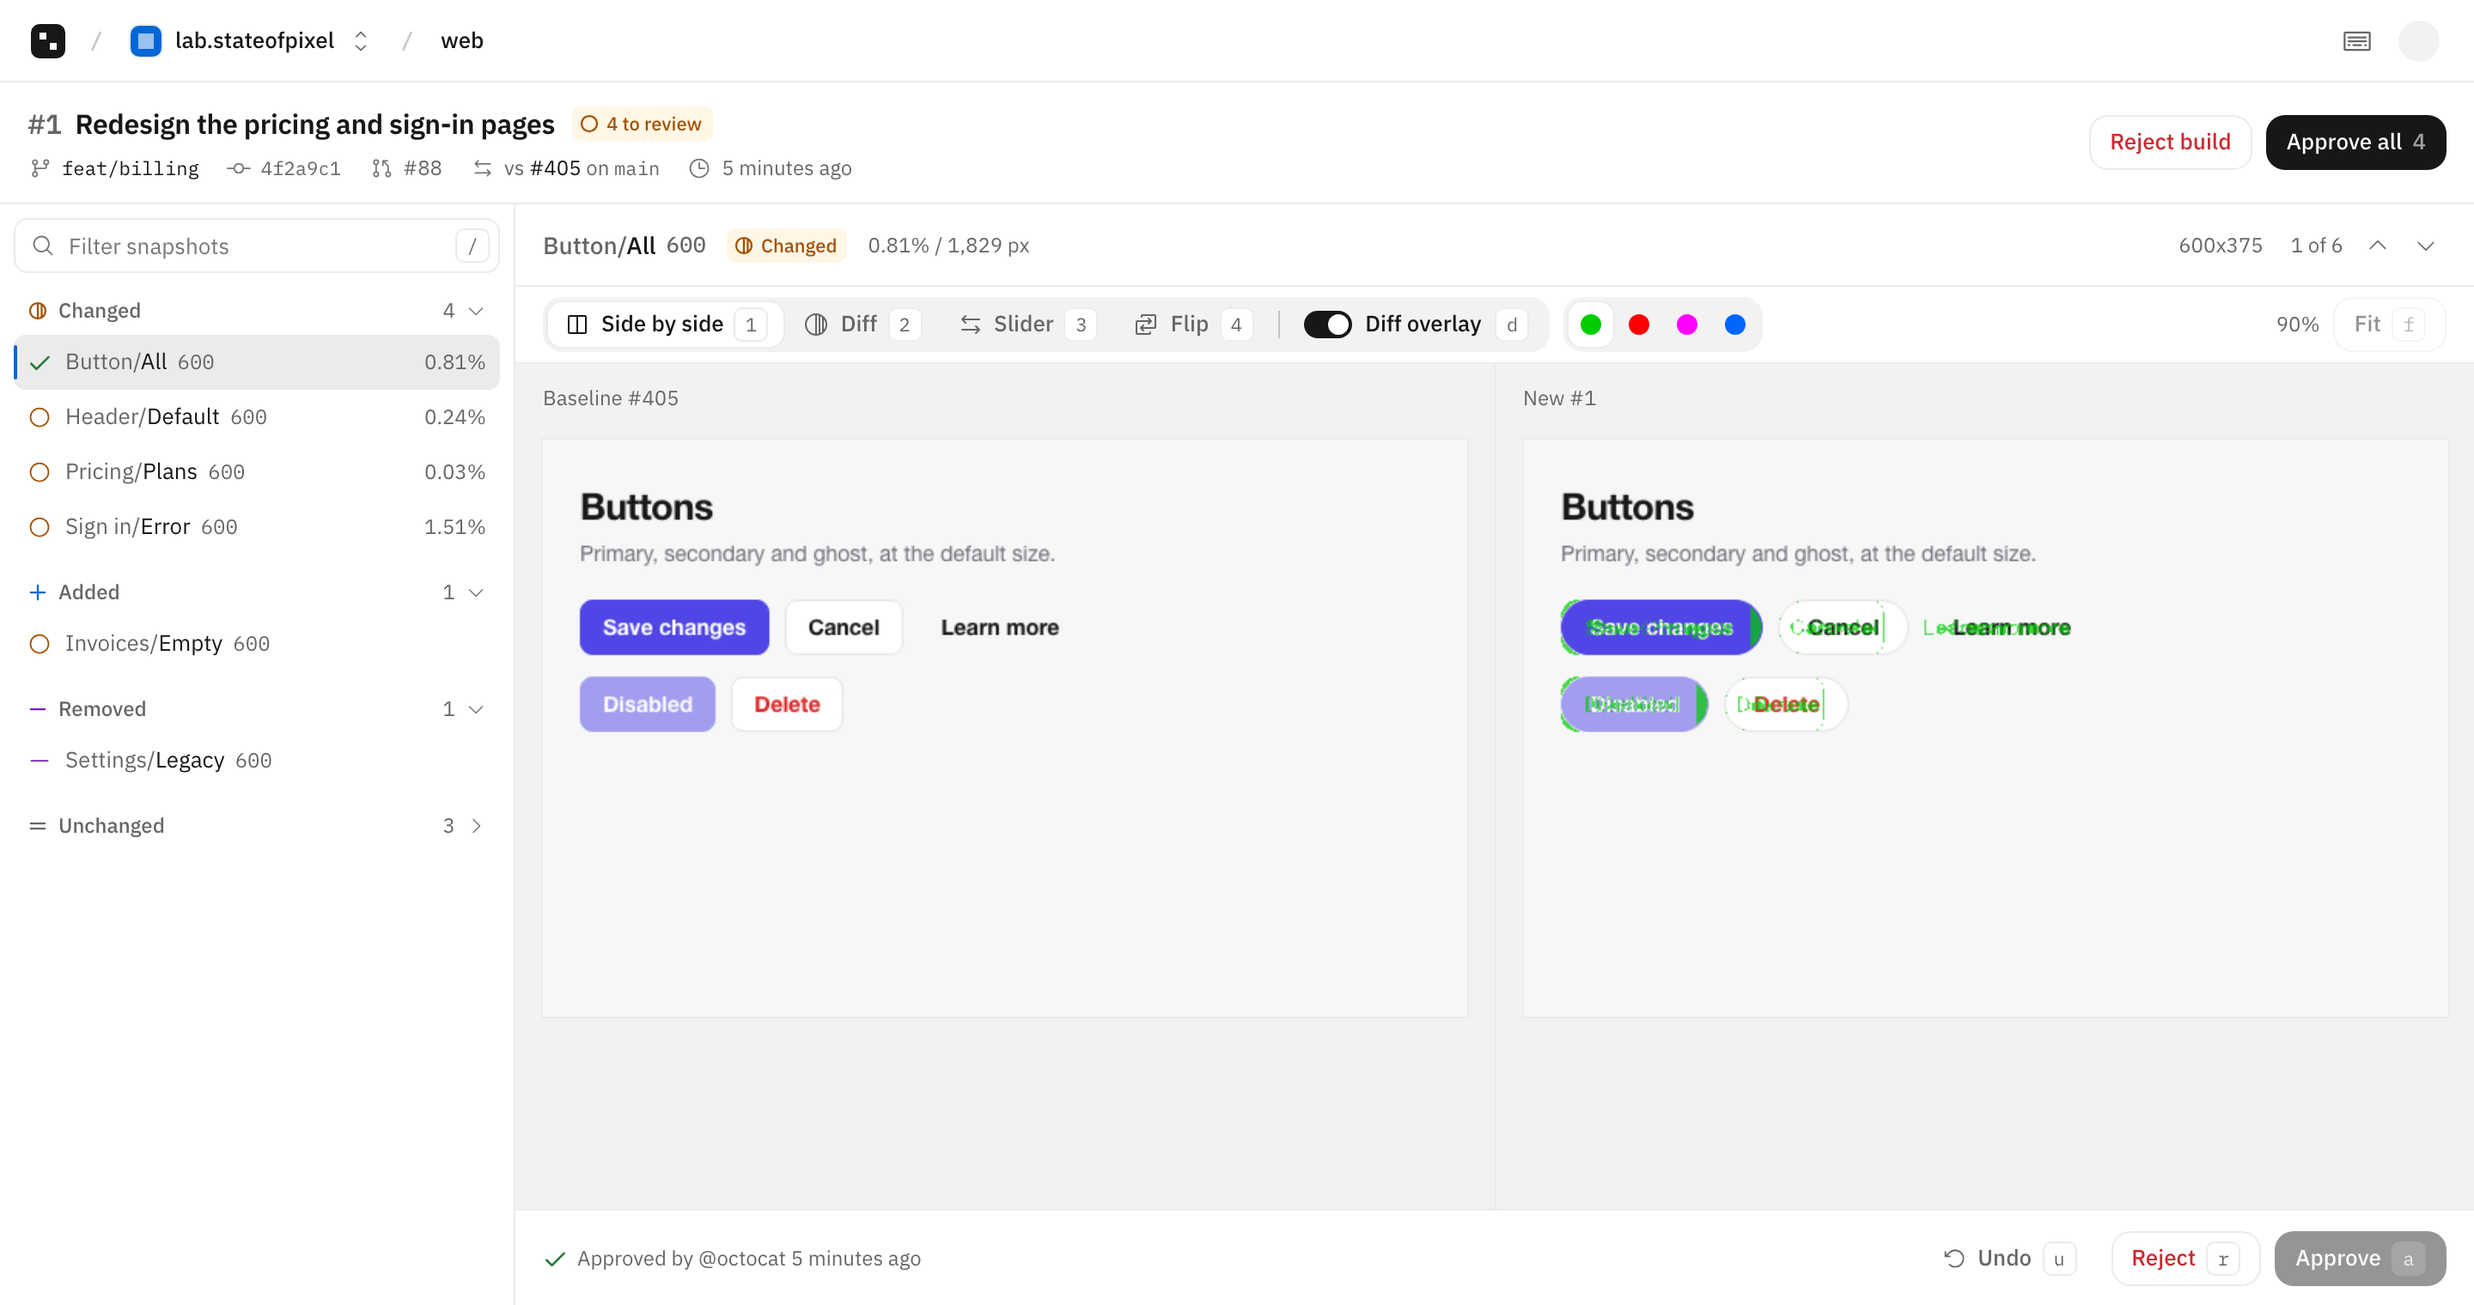
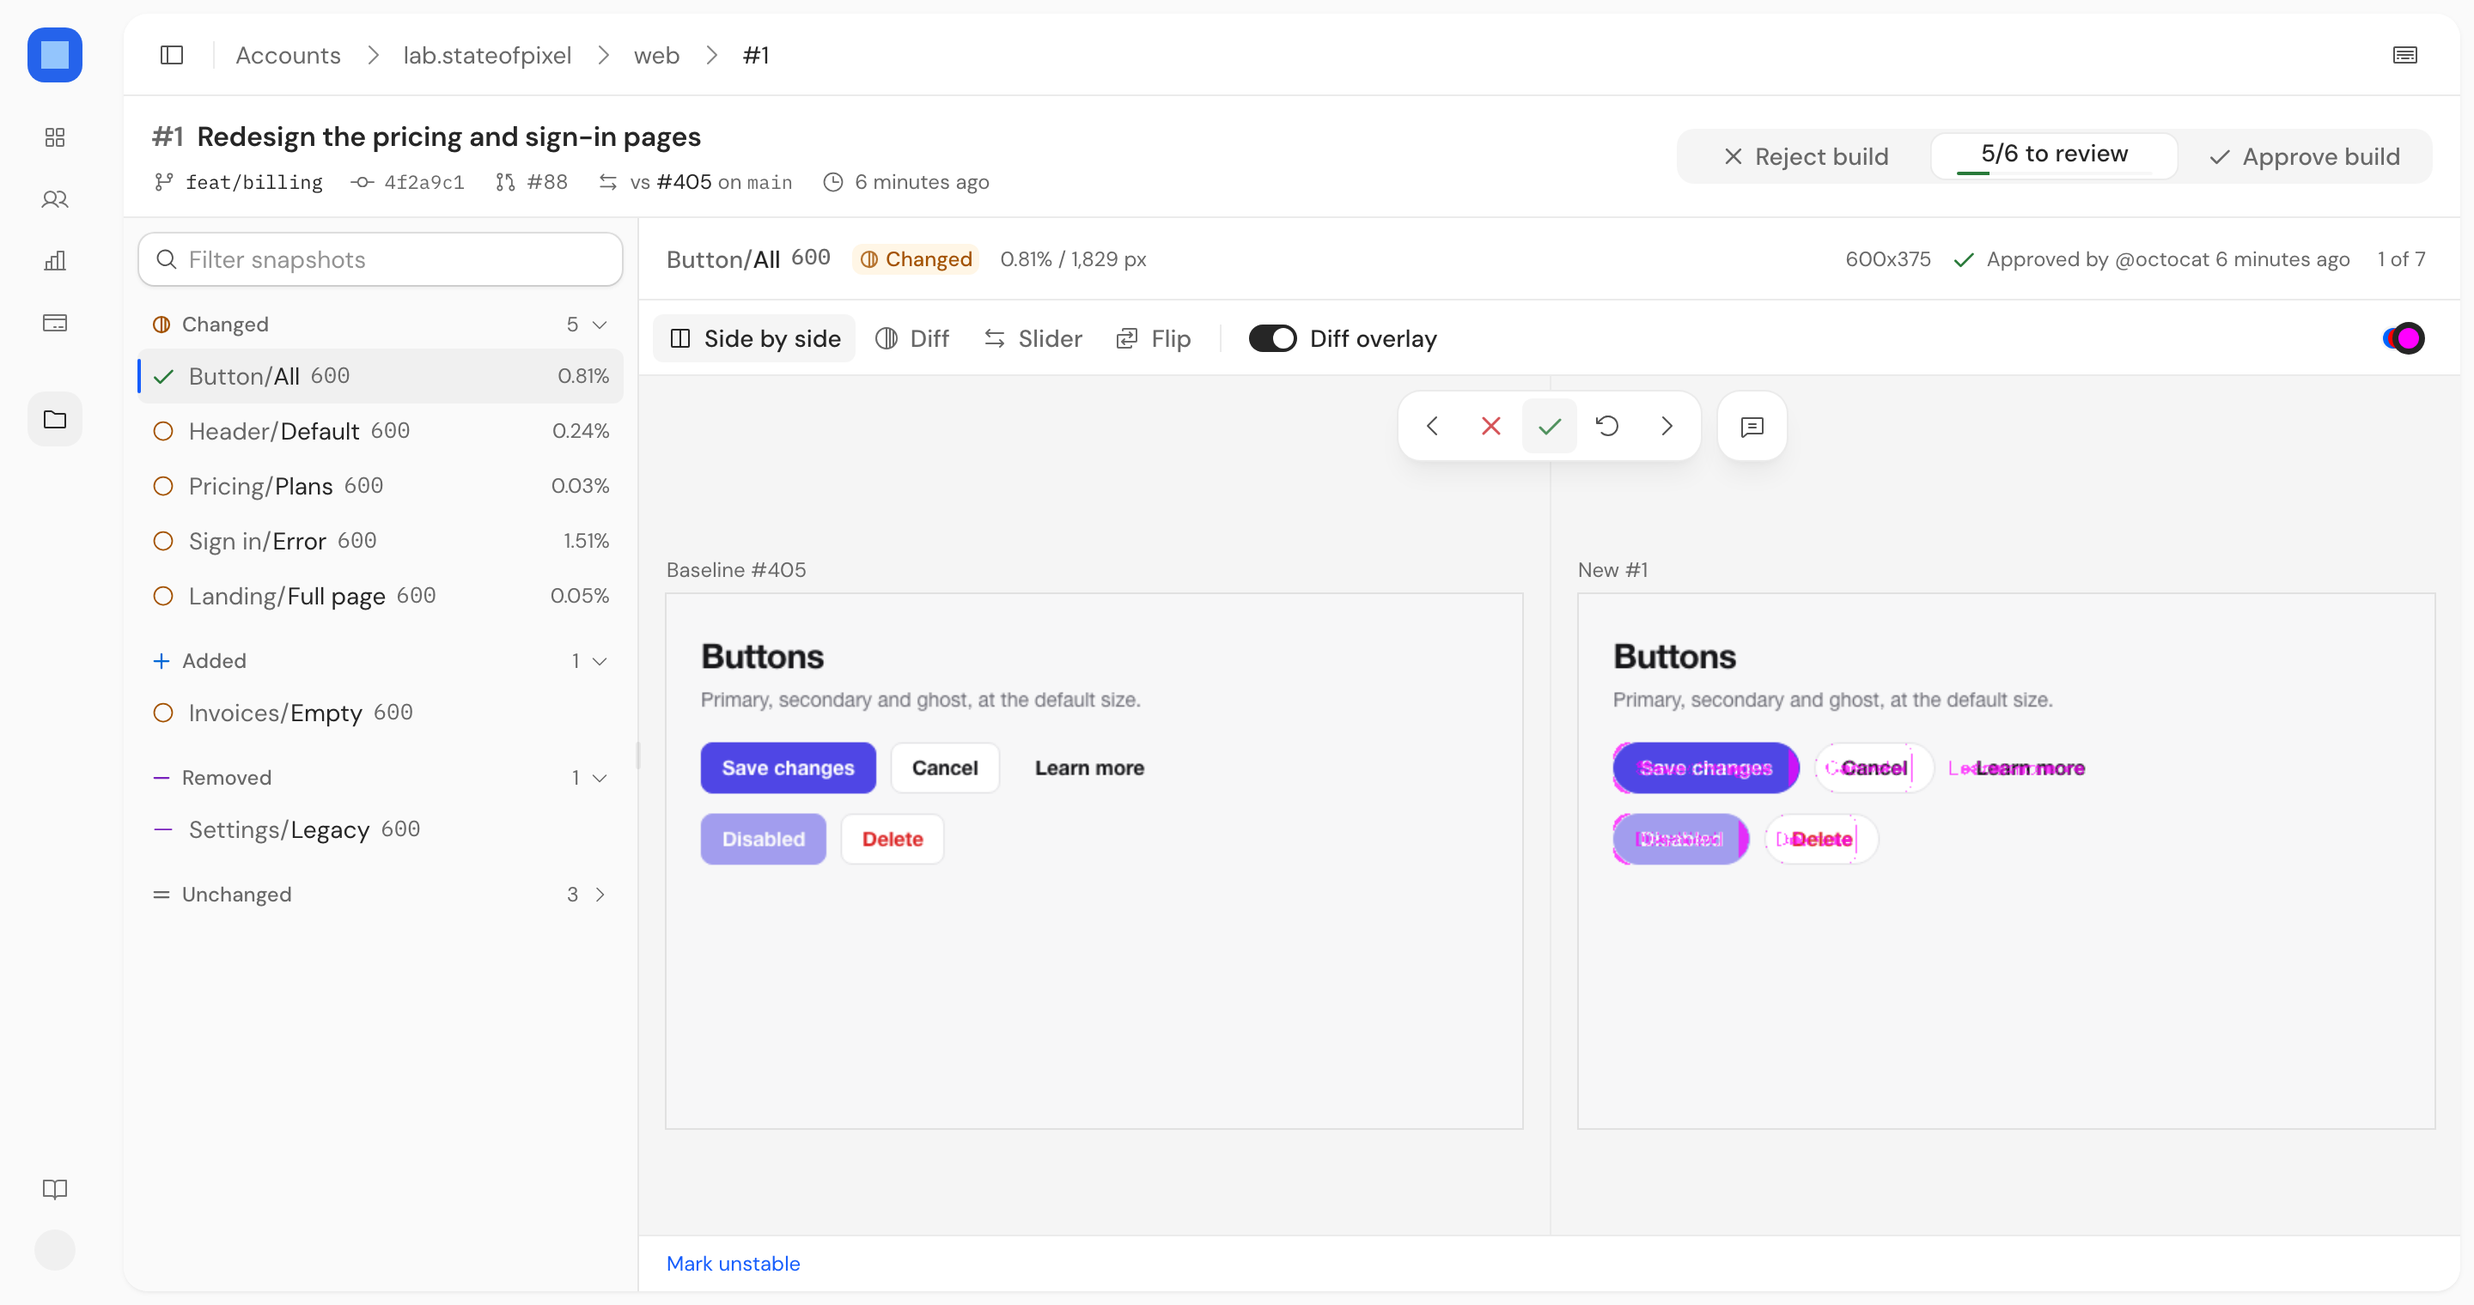
docs: refresh interface docs and the review page screenshot

diff --git a/docs/DESIGN.md b/docs/DESIGN.md
@@ -229,11 +229,11 @@ Settings: 960px max width. Each section is a row with the title on the left (224
 
 Public header: the 24px mark and the wordmark in `font-heading text-lg`, then How it works, Pricing, Compare and Docs as `muted-foreground` ghost buttons from 1024px, with `accent` fill on the current section. On the right an "Open source" ghost button with the GitHub mark and a divider from 768px, a ghost Sign in from 640px and a primary Start free (Open dashboard when signed in). Below 1024px a menu button opens a 320px right sheet with the links as 48px rows, Start free with GitHub and Sign in.
 
-Landing (`/`): the public header. Sections are `py-16 sm:py-24`; "Access follows GitHub", the questions and the closing line sit on `muted/80` bands. Sections top to bottom: the hero on a 12 column grid, the H1 in 8 columns at the hero size, and in the other 4 the lead copy, Start free with GitHub and an outline "See pricing" button, and a `text-xs muted-foreground` free line; the demo, the real build page (`BuildPage`, the same fixture hook as the lab builds) on a checkerboard inside a uiofcraft `CardFrame` with the deeper frame shadow, whose header says "Same review page as the app" and lists the keys from 1024px. Until someone presses "Try the review page", a button card with a play icon over a `background/40` veil, the demo is `inert` and its keys are off, so scrolling the page never scrolls the demo; fed by static images in `public/demo/` that `stateofpixel compare` produced, with links shown as plain text, keys active while 60% of it is in view and a check line under it that shows the GitHub check text and a Start over button once nothing is pending; setup steps next to a uiofcraft `Tabs` code block (Playwright, Storybook, GitHub Actions, Other CI, Local, each tab with its 14px logo or icon from `public/logos/`, and a note that links to its docs guide); "Nothing to wait for" as one CI run on a `muted` card: a stateofpixel lane where the upload bar fills to the median upload from our own `visual.yml` runs on a seconds axis, then the time at 40px, four step cards and the pending check row, and a hosted rendering lane of dashed steps with no times, played once when it scrolls into view, with a Replay button and the end state under reduced motion; "Access follows GitHub" with two facts and a docs link next to a grid of GitHub roles by capability, Owner first with `approved` checks, a list per role below 640px; the pipeline cases as a list in three groups with each case's flag in mono and a sliding 2px `link` bar, next to the case text, a switch between its states, the CI snippet in a code block, a mock of the check or build page it leads to and a docs link, with the list as a scrolling row below 1024px; the plan cards (Free, 25 GB, 100 GB, 500 GB, `rounded-2xl` with `shadow-xs/5`) with a Monthly and Yearly `SegmentedControl` and a contact line above 500 GB, where Free spans two columns over a status-color pixel texture (`public/pricing-pixels.png`, the `pixel-texture` class); the compare page cost calculator with Argos, Chromatic and Percy; a card with an outline "From X" button per competitor that links to its switch section; "What leaves your CI" as three boxes joined by dashed arrows (what stays in your CI, what the upload sends as rows that open with details, what stateofpixel does with it), then outages and billing, the security and billing docs links and a "Talk to Vaibhav" card with a Book a call button, next to the other questions as rows that open, with Open all; "Start free. Pay when you pass 10 GB." with three checks and the workflow snippet on a `muted/80` band; the footer. The page follows the theme setting.
+Landing (`/`): the public header. Sections are `py-16 sm:py-24`; "Access follows GitHub", the questions and the closing line sit on `muted/80` bands. Sections top to bottom: the hero on a 12 column grid, the H1 in 8 columns at the hero size, and in the other 4 the lead copy, Start free with GitHub and an outline "See pricing" button, and a `text-xs muted-foreground` free line; the demo, the real build page (`BuildPage`, the same fixture hook as the lab builds) on a checkerboard inside a uiofcraft `CardFrame` with the deeper frame shadow, whose header says "Same review page as the app" and lists the keys from 1024px. Until someone presses "Try the review page", a button card with a play icon over a `background/40` veil, the demo is `inert` and its keys are off, so scrolling the page never scrolls the demo; fed by static images in `public/demo/` that `stateofpixel compare` produced, with links shown as plain text, keys active while 60% of it is in view and a check line under it that shows the GitHub check text and a Start over button once nothing is pending; setup steps next to a uiofcraft `Tabs` code block (Playwright, Storybook, GitHub Actions, Other CI, Local, each tab with its 14px logo or icon from `public/logos/`, and a note that links to its docs guide); "Nothing to wait for" as one CI run on a `muted` card: a stateofpixel lane where the upload bar fills to the median upload from our own `visual.yml` runs on a seconds axis, then the time at 40px, four step cards and the pending check row, and a hosted rendering lane of dashed steps with no times, played once when it scrolls into view, with a Replay button and the end state under reduced motion; "Access follows GitHub" with two facts and a docs link next to a grid of GitHub roles by capability, Owner first with `approved` checks, a list per role below 640px; the pipeline cases as a list in three groups with each case's flag in mono and a sliding 2px `link` bar, next to the case text, a switch between its states, the CI snippet in a code block, a mock of the check or build page it leads to and a docs link, with the list as a scrolling row below 1024px; the plans in one `CardFrame`: the header has "Plans" and the Monthly and Yearly `SegmentedControl`, the card has Free, 25 GB, 100 GB and 500 GB as columns split by `border` lines (two by two below 1024px, stacked below 640px) with the price at `text-5xl` in `font-heading`, Free over the status-color pixel texture (`public/pricing-pixels.png`, the `pixel-texture` class) with Start free with GitHub, and the paid columns pointing to the Billing page, and the footer lists what every plan includes; a contact line above 500 GB follows; the compare page cost calculator with Argos, Chromatic and Percy; a card with an outline "From X" button per competitor that links to its switch section; "What leaves your CI" as three boxes joined by dashed arrows (what stays in your CI, what the upload sends as rows that open with details, what stateofpixel does with it), then outages and billing, the security and billing docs links and a "Talk to Vaibhav" card with a Book a call button, next to the other questions as rows that open, with Open all; "Start free. Pay when you pass 10 GB." with three checks and the workflow snippet on a `muted/80` band; the footer. The page follows the theme setting.
 
-Docs (`/docs`): the public header and footer with a 208px nav on the left that scrolls with the page, grouped under `text-xs muted-foreground` labels with 32px `rounded-md` rows (`accent` fill and weight 500 for the current page), ending with a "For agents" group that links `llms.txt` and `llms-full.txt` in `mono`, and one article column of 680px. The title is 28 to 36px weight 600 with a `text-lg muted-foreground` lead under it; body is `text-base` on a 24px line, `text-lg` weight 600 section headings with a `#` link on hover, code in `CodeBlock`, inline code as `mono` on `muted` that wraps like text (tables keep it on one line), and tables with `text-2xs muted-foreground` headers and `border` rows. Previous and next cards close every page. Below 1024 the nav folds into a "Docs / Page" disclosure above the article. The quickstart opens with four setup cards in two columns (`card`, 1px `border`, 36px icon tile, `accent` fill) and a copyable coding agent prompt in a code block style box.
+Docs (`/docs`): the public header and footer with a 224px nav on the left that sticks under the header and scrolls on its own, grouped under `text-xs muted-foreground` labels with 32px `rounded-md` rows (`accent` fill and weight 500 for the current page), ending with a "For agents" group that links `llms.txt` and `llms-full.txt` in `mono`, then one article column of up to 720px. From 1280px an "On this page" list of the page's H2s sticks on the right, 200px wide, with a `border` rail whose current item turns `foreground` as you scroll. The title is `font-heading`, clamp(2rem, 3.5vw, 2.75rem), with a `text-lg muted-foreground` lead under it and a `border` line before the body; body is 15px on a 28px line, `font-heading text-xl` section headings with a `#` link on hover, code in `CodeBlock`, inline code as `mono` on `muted` that wraps like text (tables keep it on one line), and tables with `text-2xs muted-foreground` headers and `border` rows. Previous and next cards (`rounded-xl`, `border`, `shadow-xs/5`) close every page. Below 1024 the nav folds into a "Docs / Page" disclosure above the article. The quickstart opens with four setup cards in two columns and a copyable coding agent prompt in a code block style box.
 
-Compare (`/compare/{competitor}`): the public header and footer. Hero: our mark, "vs" in mono and the competitor logo at 32px with a "Compare / X" breadcrumb, for priced competitors a `text-display` H1 that leads with the yearly saving for the default suite in `approved` at clamp(56px, 7vw, 112px) and "a year less than X.", with the suite in `text-sm muted-foreground` under it (Lost Pixel keeps its own headline), lead copy, Start free with GitHub and "See the switch", and a `text-xs muted-foreground` line with the check date and a link to the sources; on the right a 480px card with the `HeroChecks` shadow, either the monthly bill for the default suite (ours in `approved` at 36px) or, for Lost Pixel, a status list under a "Shutting down" pill in `rejected`. Then: "One build, step by step", a numbered rail between their steps on `muted-foreground` and ours on `card` with counts for the default suite, a One build and One month switch, and a total row with their "Billed per" pill in `changed` and ours in `approved`; three numbered difference cards; the review page screenshot on the checkerboard; the cost calculator, range sliders on `muted` next to one bar per tool and a yearly savings line; the table as two tall columns, ours on `card` with a `border` ring and theirs on `muted-foreground`, starting with five key rows and a switch for the groups (Pricing, Screenshots, Platform) and All, a Show all button, superscript `link` numbers to the sources, and paired cards per row below 768px; "Where X is ahead" cards on `muted` with their logo; three switch steps above a Before and After pair of code blocks; the FAQ as `details` rows; the sources in three columns of `text-xs`; the display line on a `background` band with the other comparisons as logo rows. Competitor logos are the companies' GitHub avatars at 128px, shown with a 22% radius and a `border` ring. The index (`/compare`) has all five logos above the H1, one card per competitor (40px logo, name, one line, three facts, the default suite bill) and the calculator with every priced competitor.
+Compare (`/compare/{competitor}`): the public header and footer. Hero on the 12 column grid, the copy in 7 columns and the bill card in 5: our mark and the competitor logo at 32px overlapping, then a "Compare > vs X" `Breadcrumb`, for priced competitors a `text-display` H1 that leads with the yearly saving for the default suite in `approved` at clamp(56px, 7vw, 112px) and "a year less than X.", with the suite in `text-sm muted-foreground` under it (Lost Pixel keeps its own headline), lead copy, Start free with GitHub and "See the switch", and a `text-xs muted-foreground` line with the check date and a link to the sources; on the right a 480px `rounded-2xl` card with the deeper frame shadow, either the monthly bill for the default suite (ours in `approved` at 36px) or, for Lost Pixel, a status list under a "Shutting down" pill in `rejected`. Then: "One build, step by step", a numbered rail between their steps on `muted-foreground` and ours on `card` with counts for the default suite, a One build and One month `SegmentedControl`, and a total row with their "Billed per" pill in `changed` and ours in `approved`; three numbered difference cards on a `muted/80` band; the review page screenshot on the checkerboard; the cost calculator, range sliders on `muted` next to one bar per tool and a yearly savings line; the table as two tall columns, ours on `card` with a `border` and theirs on `muted/72`, both `rounded-2xl`, starting with five key rows and a `SegmentedControl` for the groups (Pricing, Screenshots, Platform) and All, a Show all button, superscript `link` numbers to the sources, and paired cards per row below 768px; "Where X is ahead" as bordered cards with their logo; three switch steps above a Before and After pair of code blocks; the FAQ as `details` rows on a `muted/80` band; the sources in three columns of `text-xs`; the display line on a `muted/80` band with the other comparisons as logo rows. Competitor logos are the companies' GitHub avatars at 128px, shown with a 22% radius and a `border` ring. The index (`/compare`) has the hero on the 12 column grid, with every competitor logo, the lead and the check date in the right 5 columns, one card per competitor (40px logo, name, one line, three facts, the default suite bill) and the calculator with every priced competitor.
 
 Open Graph images: every public page and docs page gets a 1200x630 PNG at `/og/<path>.png`, rendered by `apps/web/scripts/ogImage.ts` with satori and resvg, at build time by `scripts/og-images.ts` and on request in dev, from the title and description in `src/lib/pageMeta.ts` and the docs meta. The card is `background` with the wordmark and the page path in Lilex `muted` at the top, the title at 72px weight 600 with -0.045em tracking and the description at 30px `muted` at the bottom, and the pricing pixel texture on the right at 50% opacity, unsmoothed. Both use `textWrap: balance`. The landing card shows the title only. Compare cards replace the path with "vs" and the competitor logo, and use the page headline as the title. `visual/og.visual.ts` captures every card on the desktop project, so the `web` build reviews them.
 

diff --git a/packages/cli/README.md b/packages/cli/README.md
@@ -7,7 +7,7 @@
 
 Catch UI regressions before they merge. Upload a folder of screenshots, review the changes on [stateofpixel.com](https://stateofpixel.com), and a GitHub check waits until every change is approved. [Require the check](https://stateofpixel.com/docs/checks#require-it) to block the merge until then.
 
-![The stateofpixel review page, with the baseline and the new screenshot side by side and the changed pixels in green](https://stateofpixel.com/readme/review-page.png)
+![The stateofpixel review page, with the baseline and the new screenshot side by side and the changed pixels in magenta](https://stateofpixel.com/readme/review-page.png)
 
 The docs are at [stateofpixel.com/docs](https://stateofpixel.com/docs).
 
